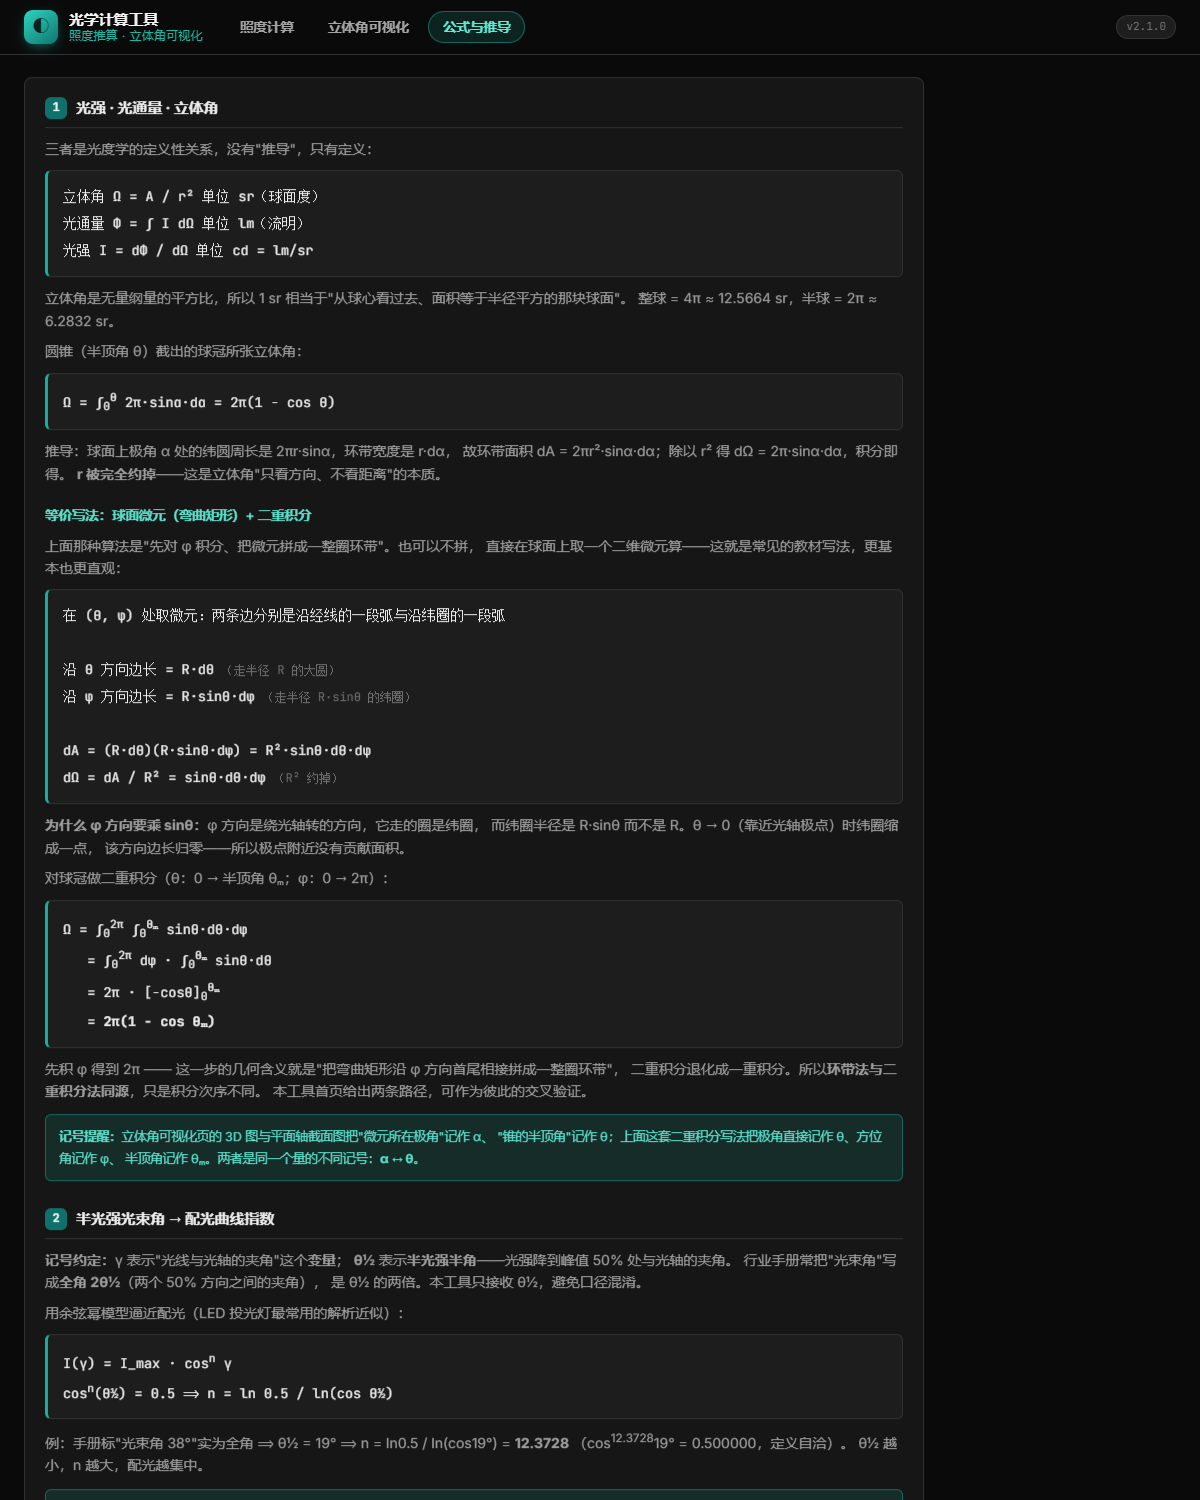
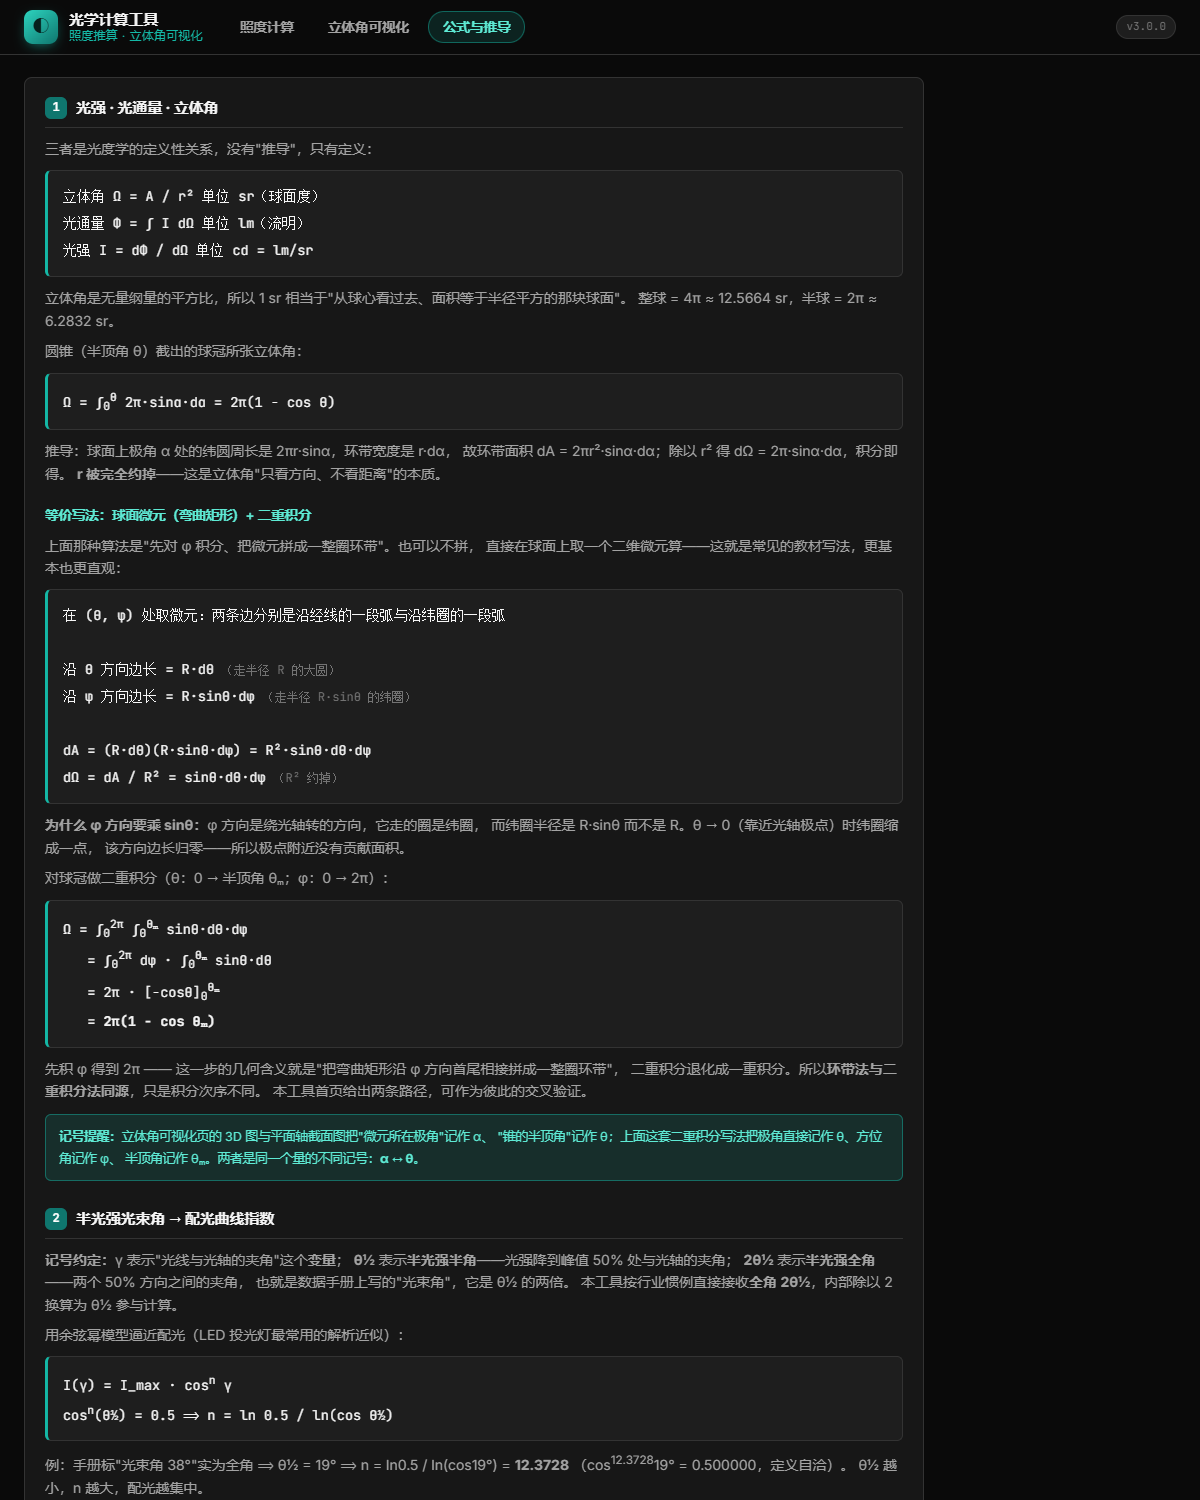
v3.0.0 光束角口径改回半光强全角 2θ½
输入口径由「半光强半角 θ½」改回「半光强全角 2θ½」，即数据手册上写的"光束角"。
这与 v1.x 的默认口径一致，但与 v2.x 不兼容：

  输入字段  v2.x 半光强半角 θ½  →  v3.0.0 半光强全角 2θ½
  默认值    19                 →  38
  合法区间  0.5° ~ 89.5°       →  1° ~ 179°
  内部换算  直接使用            →  除以 2 得到 θ½

同一数值语义不同。实测误填后果（把手册标注的半角值 19° 直接填入，
Φ = 9000 lm、h = 3 m）：配光指数 n 由 12.37 → 50.19（放大 4.06 倍）、
I₀ 19 155 → 73 330 cd、E_max 2 128 → 8 148 lx（高估 282.8%）、
R½ 1.033 → 0.502 m（低估），且页面不会有任何异常提示。

故仍按破坏性变更跳 MAJOR（判据与 v2.0.0 保持一致）。

口径防错方向随之反转：实时读数由「等价全角 2θ½」改为「等价半角 θ½」，
常驻提示由「若标全角请除以 2」改为「若标半角请先乘以 2」。
理论页记号约定补上 2θ½ 的定义与内部换算说明。

冒烟测试新增 1 项断言（输入框默认值与区间须与全角口径一致），共 38 项；
5 个套件全绿。

diff --git a/index.html b/index.html
@@ -59,11 +59,11 @@
           </div>
 
           <div class="field">
-            <label>光束角 θ½ <span class="unit">°</span><em>半光强半角</em></label>
-            <input id="beam" type="number" value="19" min="0.5" max="89.5" step="0.5">
+            <label>光束角 2θ½ <span class="unit">°</span><em>半光强全角</em></label>
+            <input id="beam" type="number" value="38" min="1" max="179" step="1">
             <div class="mini-hint">
-              等价全角 2θ½ = <b id="beam-full">38.0°</b>。
-              数据手册若标的是<b>全角</b>（如 38°、24°），请先除以 2 再填入上面。
+              等价半角 θ½ = <b id="beam-full">19.0°</b>。
+              数据手册若标的是<b>半角</b>（如 19°、12°），请先乘以 2 再填入上面。
             </div>
           </div>
         </div>
@@ -150,7 +150,7 @@
             <div class="item"><span class="k">配光指数 n</span><span class="v" id="sum-n">—</span></div>
             <div class="item"><span class="k">中心光强 I₀ <small>cd</small></span><span class="v" id="sum-imax">—</span></div>
             <div class="item"><span class="k">I₀ 来源</span><span class="v" id="sum-imaxsrc">—</span></div>
-            <div class="item"><span class="k">半光强半角 θ½</span><span class="v" id="sum-ghalf">—</span></div>
+            <div class="item"><span class="k">半光强全角 2θ½</span><span class="v" id="sum-ghalf">—</span></div>
             <div class="item"><span class="k">半光强锥立体角 Ω</span><span class="v" id="sum-omega">—</span></div>
             <div class="item"><span class="k">占全球面比例</span><span class="v" id="sum-omegapct">—</span></div>
             <div class="item"><span class="k">半光强光斑 R½</span><span class="v" id="sum-r50">—</span></div>
@@ -612,9 +612,10 @@
         <h3><span class="n">2</span>半光强光束角 → 配光曲线指数</h3>
         <p>
           <b>记号约定：</b>γ 表示"光线与光轴的夹角"这个<b>变量</b>；
-          <b>θ½</b> 表示<b>半光强半角</b>——光强降到峰值 50% 处与光轴的夹角。
-          行业手册常把"光束角"写成<b>全角 2θ½</b>（两个 50% 方向之间的夹角），
-          是 θ½ 的两倍。本工具只接收 θ½，避免口径混淆。
+          <b>θ½</b> 表示<b>半光强半角</b>——光强降到峰值 50% 处与光轴的夹角；
+          <b>2θ½</b> 表示<b>半光强全角</b>——两个 50% 方向之间的夹角，
+          也就是数据手册上写的"光束角"，它是 θ½ 的两倍。
+          本工具按行业惯例直接接收<b>全角 2θ½</b>，内部除以 2 换算为 θ½ 参与计算。
         </p>
         <p>用余弦幂模型逼近配光（LED 投光灯最常用的解析近似）：</p>
         <div class="eq">
@@ -707,7 +708,7 @@
       <section>
         <h3><span class="n">6</span>默认算例（可用于交叉验算）</h3>
         <div class="eq">
-          输入：Φ = 9000 lm，光束角 θ½ = 19°（手册写法为全角 38°，n = 12.3728），h = 3 m，
+          输入：Φ = 9000 lm，光束角 2θ½ = 38°（即半角 θ½ = 19°，n = 12.3728），h = 3 m，
                 被照面 = 圆盘 R = h·tan19° = 1.0330 m，Ω(19°) = 0.34232 sr
           <br><br>I₀      = Φ(n+1)/(2π) = 9000×13.3728/6.283185 = 19 155 cd
           <br>E_max   = 19155 / 3²                    = 2 128 lx

diff --git a/js/app.js b/js/app.js
@@ -34,14 +34,17 @@
    * ========================================================= */
 
   function readInputs() {
-    // 光束角只接收半光强半角 θ½（不带全角口径换算，避免两套记法混淆）
-    var gh = num('beam');
+    // 光束角按行业惯例接收「半光强全角 2θ½」（数据手册上的写法），
+    // 内部统一换算为半角 θ½ 参与计算。
+    // 字段分工：beam 存全角（用于回显用户原输入），gammaHalfDeg 存半角（计算用）。
+    var beamFull = num('beam');
+    var gh = beamFull / 2;
     var itxt = $('imax').value.trim();
     return {
       model: $('model').value,
       flux: num('flux'),
       centerIntensity: itxt === '' ? null : parseFloat(itxt),
-      beam: gh,
+      beam: beamFull,
       gammaHalfDeg: gh,
       h: num('height'),
       shapeType: radioVal('shape'),
@@ -68,15 +71,15 @@
     var inp = readInputs();
     renderErrors = [];
 
-    // 等价全角实时显示（放在校验之前，输入过程中也能看到），
+    // 等价半角实时显示（放在校验之前，输入过程中也能看到），
     // 让用户拿数据手册一眼对上是全角还是半角口径
     var g = inp.gammaHalfDeg;
-    setText('beam-full', isFinite(g) && g > 0 ? (g * 2).toFixed(1) + '°' : '—');
+    setText('beam-full', isFinite(g) && g > 0 ? g.toFixed(1) + '°' : '—');
 
     /* --- 校验 --- */
     var warn = [];
     if (!(inp.flux > 0)) warn.push('光通量需大于 0');
-    if (!(inp.gammaHalfDeg > 0.5) || !(inp.gammaHalfDeg < 89.5)) warn.push('半光强半角 θ½ 需在 0.5° ~ 89.5°');
+    if (!(inp.gammaHalfDeg > 0.5) || !(inp.gammaHalfDeg < 89.5)) warn.push('光束角 2θ½ 需在 1° ~ 179°');
     if (!(inp.h > 0)) warn.push('垂直距离需大于 0');
     if (inp.shapeType === 'circle' && !(inp.R > 0)) warn.push('半径需大于 0');
     if (inp.shapeType === 'rect' && (!(inp.L > 0) || !(inp.W > 0))) warn.push('矩形长宽需大于 0');
@@ -132,7 +135,8 @@
     setText('sum-omegapct', fpct(omHalf / O.FULL_SPHERE, 2) + ' × 4π');
     setText('sum-r50', fnum(R50, 3) + ' m');
     setText('sum-r10', fnum(R10, 3) + ' m');
-    setText('sum-ghalf', fnum(inp.gammaHalfDeg, 2) + '°');
+    // 摘要标签为「半光强全角 2θ½」，故回显 2×半角
+    setText('sum-ghalf', fnum(inp.gammaHalfDeg * 2, 2) + '°');
 
     // 光通量一致性
     var dev = m.ImaxSource === 'given' ? (m.fluxImplied / inp.flux - 1) : 0;
@@ -454,7 +458,7 @@
       $('model').value = 'cosN';
       $('flux').value = 9000;
       $('imax').value = '';
-      $('beam').value = 19;          // 半光强半角 θ½（手册全角写法为 38°）
+      $('beam').value = 38;          // 半光强全角 2θ½（等价半角 θ½ = 19°）
       $('height').value = 3;
       document.querySelector('input[name="shape"][value="circle"]').checked = true;
       $('radius').value = '1.033';

diff --git a/tests/smoke-render.js b/tests/smoke-render.js
@@ -127,14 +127,16 @@ ok('半光强锥立体角', textOf(dom, 'sum-omega'), '0.3423 sr');
 ok('占全球面比例', textOf(dom, 'sum-omegapct'), '2.72% × 4π');
 ok('半光强光斑 R½', textOf(dom, 'sum-r50'), '1.033 m');
 ok('10% 光斑 R₁₀', textOf(dom, 'sum-r10'), '2.015 m');
-ok('半光强半角 θ½', textOf(dom, 'sum-ghalf'), '19.00°');
+ok('半光强全角 2θ½', textOf(dom, 'sum-ghalf'), '38.00°');
 
-console.log('\n=== 2b. 光束角口径防错（只收 θ½）===');
-ok('等价全角 2θ½ 实时读数', textOf(dom, 'beam-full'), '38.0°');
-okTrue('已移除全角口径开关', !/name="conv"/.test(dom), '未发现 name="conv" 控件');
-okTrue('"请先除以 2" 提示在位',
-  /请先除以 2 再填入/.test(dom), '命中提示文案');
-okTrue('配光指数按 θ½ 计算（n 由 19° 定标）',
+console.log('\n=== 2b. 光束角口径防错（只收全角 2θ½）===');
+ok('等价半角 θ½ 实时读数', textOf(dom, 'beam-full'), '19.0°');
+okTrue('已移除口径选择开关（统一收全角）', !/name="conv"/.test(dom), '未发现 name="conv" 控件');
+okTrue('输入框为全角口径（默认 38，区间 1~179）',
+  /id="beam"[^>]*value="38"[^>]*min="1"[^>]*max="179"/.test(dom), '检查 input#beam 的属性');
+okTrue('"请先乘以 2" 提示在位',
+  /请先乘以 2 再填入/.test(dom), '命中提示文案');
+okTrue('配光指数按 θ½ 计算（全角 38° → 半角 19° 定标）',
   String(textOf(dom, 'sum-n')) === '12.37', 'n = ' + textOf(dom, 'sum-n'));
 
 console.log('\n=== 3. 立体角与两种积分解法 ===');

diff --git a/js/optics.js b/js/optics.js
@@ -6,8 +6,8 @@
  *   γ      光线与灯具光轴夹角（变量）(rad)
  *   θ½     "半光强半角"：光强降至峰值 50% 处与光轴的夹角 (rad)
  *          也是圆锥的半顶角。代码内沿用 gammaHalf 命名。
- *   光束角  行业手册常指"半光强全角" = 2θ½，是 θ½ 的两倍；
- *          本工具只接收 θ½，UI 不提供全角口径以避免混淆。
+ *   光束角  行业手册指"半光强全角" = 2θ½，是 θ½ 的两倍；
+ *          本工具的 UI 接收全角 2θ½，进入计算前除以 2 换算为 θ½。
  *   Φ      灯具总光通量 (lm)
  *   I(γ)   给定方向光强 (cd = lm/sr)
  *   h      灯具到被照面的垂直距离 (m)

diff --git a/styles.css b/styles.css
@@ -226,7 +226,7 @@ select {
 .row > * { min-width: 0; }
 .row .sep { color: var(--text-3); font-family: var(--mono); font-size: 12px; }
 
-/* 字段下方的补充说明（如"等价全角"这类防误填提示） */
+/* 字段下方的补充说明（如"等价半角"这类防误填提示） */
 .mini-hint {
   margin-top: 6px;
   font-size: 11.5px;

diff --git a/js/version.js b/js/version.js
@@ -9,4 +9,4 @@
  * 会断言这一点。此前页脚写死 v1.0.0 而实际已迭代到 v2.0.1，页面显示的
  * 版本与实际版本各说各话，这是真实发生过的缺陷。
  * ============================================================ */
-window.APP_VERSION = 'v2.1.0';
+window.APP_VERSION = 'v3.0.0';

diff --git a/CHANGELOG.md b/CHANGELOG.md
@@ -8,6 +8,42 @@ annotated tag，并在本文件记录变更。
 
 对应站点：<https://wisdomhuang2020.github.io/optical-calculator/>
 
+## [v3.0.0] - 2026-09-17
+
+### ⚠ 破坏性变更
+- **光束角输入口径由「半光强半角 θ½」改回「半光强全角 2θ½」**（数据手册上写的
+  "光束角"）。输入框标签、默认值、合法区间随之变化：
+
+  | | v2.x | v3.0.0 |
+  |---|---|---|
+  | 输入字段 | 半光强半角 θ½ | **半光强全角 2θ½** |
+  | 默认值 | 19 | **38** |
+  | 合法区间 | 0.5° ~ 89.5° | **1° ~ 179°** |
+  | 内部换算 | 直接使用 | **除以 2 得到 θ½** |
+
+  **同一数值在新版语义不同。** 若把数据手册标注的**半角**值（如 19°）直接填入，
+  新版会当作全角 19°（即半角 9.5°）。实测后果（Φ = 9000 lm、h = 3 m）：
+
+  | 量 | 正确（填 38） | 误填（填 19） |
+  |---|---|---|
+  | 配光指数 n | 12.37 | **50.19**（放大 4.06 倍） |
+  | 中心光强 I₀ | 19 155 cd | **73 330 cd** |
+  | E_max | 2 128 lx | **8 148 lx（高估 282.8%）** |
+  | 半光强光斑 R½ | 1.033 m | **0.502 m（低估）** |
+
+  且页面不会有任何异常提示。按全角习惯填写（如 38°）则无需改动，
+  结果与 v1.x 完全一致。
+
+### 变更
+- 口径防错方向反转：实时读数由「等价全角 2θ½」改为「等价半角 θ½」；
+  常驻提示由「若标全角请除以 2」改为「若标**半角**（如 19°、12°）请先**乘以 2**」
+- 理论页「记号约定」补上 2θ½ 的定义与「内部除以 2」的换算说明
+- 冒烟测试新增 1 项断言（输入框默认值与区间须与全角口径一致），共 38 项
+
+### 说明
+- 本次变更使输入口径**回到 v1.x 的惯例**（v1.x 同样以全角为默认口径，只是当时
+  另带一个口径选择开关）。因此从 v1.x 升级是兼容的，仅与 v2.x 不兼容。
+
 ## [v2.1.0] - 2026-09-17
 
 ### 变更
